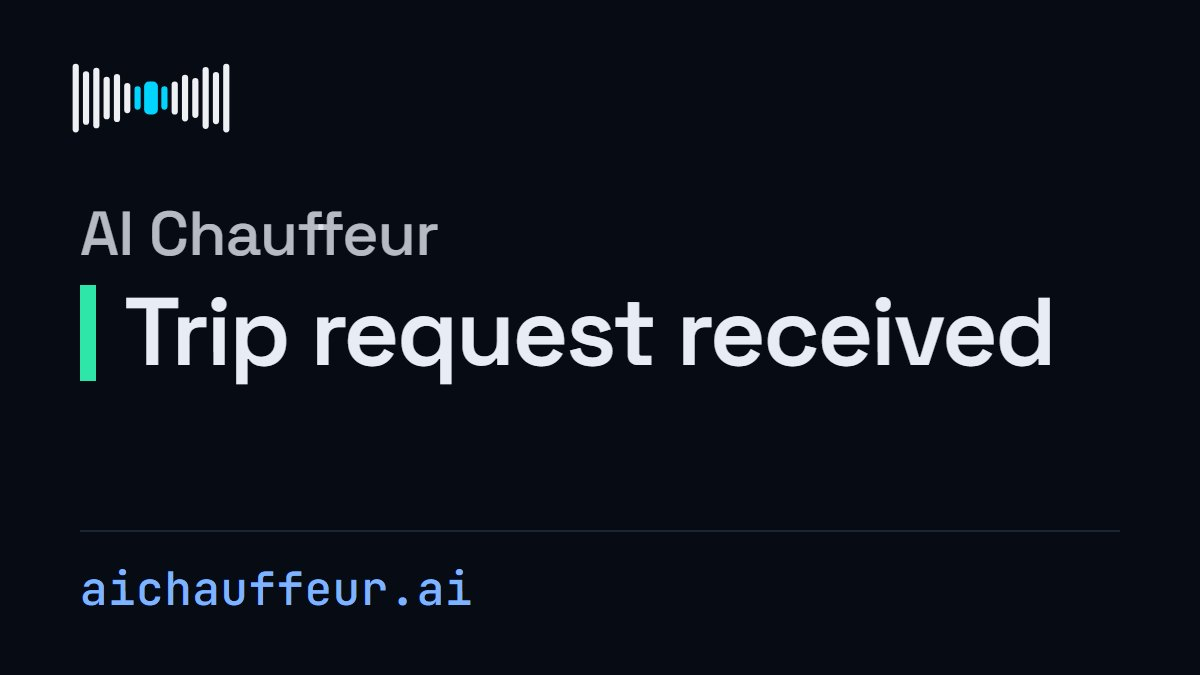
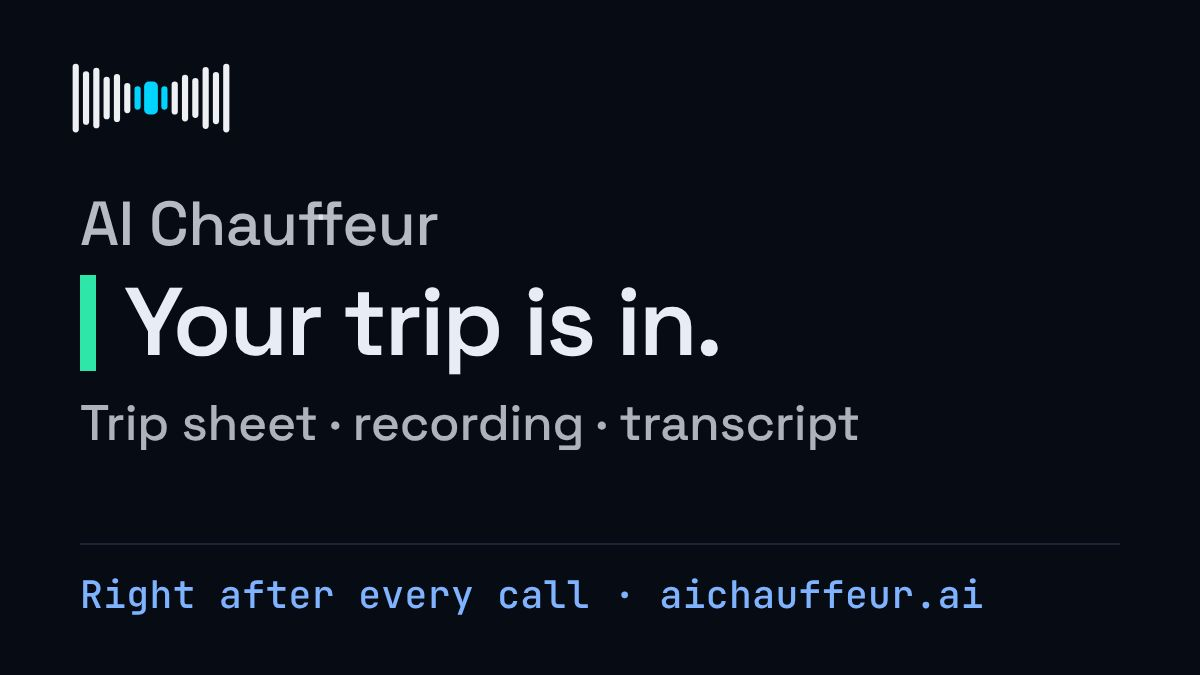
aic trip text B: card v1 (Your trip is in. · Trip sheet · recording · transcript), Sep card kept
n8n (published via MCP, Oct 20 2026): WF-TRIP-SHEET + Page Words v2 (version 2b0bbab6),
DEMO POST-CALL RAIL + Owner Words v2, owner MMS card, demo caller billboard text (version e35d9924).
Rollback: trip sheet 484c0a36, rail c7bd86fd.

Claude-Session: https://claude.ai/code/session_01AroH9HQrr5p2ctT592LeD2

diff --git a/chauffeur/assets/trip-text-card.html b/chauffeur/assets/trip-text-card.html
@@ -6,7 +6,8 @@
 <title>Trip text card source | AI Chauffeur</title>
 <!-- Source of /assets/trip-text-card.jpg, the image on the caller's trip text (MMS) and the trip
      sheet's og:image. Rendered by headless Chromium at 1200x675 and saved as JPG. Words on the card,
-     exactly: "AI Chauffeur", "Trip request received", "aichauffeur.ai". The mark is the supplied
+     exactly: "AI Chauffeur", "Your trip is in.", "Trip sheet · recording · transcript", "Right after every call · aichauffeur.ai"
+     (card v1, Oct 20 2026; the Sep card is kept as trip-text-card-2026-09.jpg). JPEG quality 80, under 300 KB. The mark is the supplied
      brand/mark-full.svg, referenced and never redrawn or recoloured. Tokens: DESIGN-SYSTEM.md 2. -->
 <style>
   @font-face{font-family:'Space Grotesk';src:url('../fonts/space-grotesk.woff2') format('woff2');font-weight:300 700;font-display:block}
@@ -16,22 +17,25 @@
   .card{position:relative;width:1200px;height:675px;background:#070B14;color:#E8EDF5;
     padding:60px 80px 56px;display:flex;flex-direction:column}
   .mark{display:block;width:176px;height:176px;margin:-50px 0 -26px -17px}
-  .name{margin-top:40px;font-family:'Space Grotesk',sans-serif;font-weight:500;font-size:62px;
+  .name{margin-top:30px;font-family:'Space Grotesk',sans-serif;font-weight:500;font-size:62px;
     line-height:1.1;letter-spacing:-.01em;color:rgba(232,237,245,.78)}
   .state{display:flex;align-items:center;gap:28px;margin-top:14px}
   .state i{display:block;flex:none;width:16px;height:96px;background:#2EE6A8}
   .state h1{font-family:'Space Grotesk',sans-serif;font-weight:600;font-size:96px;line-height:1.05;
     letter-spacing:-.025em;color:#E8EDF5;white-space:nowrap}
-  .foot{margin-top:auto;padding-top:26px;border-top:2px solid #1B2536;
-    font-family:'JetBrains Mono',monospace;font-weight:500;font-size:46px;letter-spacing:.01em;color:#7FB2FF}
+  .sub{margin-top:22px;font-family:'Space Grotesk',sans-serif;font-weight:500;font-size:50px;line-height:1.15;
+    letter-spacing:-.005em;color:rgba(232,237,245,.74)}
+  .foot{margin-top:auto;padding-top:24px;border-top:2px solid #1B2536;
+    font-family:'JetBrains Mono',monospace;font-weight:500;font-size:38px;letter-spacing:.01em;color:#7FB2FF}
 </style>
 </head>
 <body>
 <div class="card">
   <img class="mark" src="brand/mark-full.svg" width="132" height="132" alt="">
   <p class="name">AI Chauffeur</p>
-  <div class="state"><i></i><h1>Trip request received</h1></div>
-  <p class="foot">aichauffeur.ai</p>
+  <div class="state"><i></i><h1>Your trip is in.</h1></div>
+  <p class="sub">Trip sheet · recording · transcript</p>
+  <p class="foot">Right after every call · aichauffeur.ai</p>
 </div>
 </body>
 </html>

diff --git a/infra/backups/2026-10-20/chauffeur/assets/trip-text-card.html b/infra/backups/2026-10-20/chauffeur/assets/trip-text-card.html
@@ -1,0 +1,37 @@
+<!DOCTYPE html>
+<html lang="en">
+<head>
+<meta charset="utf-8">
+<meta name="robots" content="noindex">
+<title>Trip text card source | AI Chauffeur</title>
+<!-- Source of /assets/trip-text-card.jpg, the image on the caller's trip text (MMS) and the trip
+     sheet's og:image. Rendered by headless Chromium at 1200x675 and saved as JPG. Words on the card,
+     exactly: "AI Chauffeur", "Trip request received", "aichauffeur.ai". The mark is the supplied
+     brand/mark-full.svg, referenced and never redrawn or recoloured. Tokens: DESIGN-SYSTEM.md 2. -->
+<style>
+  @font-face{font-family:'Space Grotesk';src:url('../fonts/space-grotesk.woff2') format('woff2');font-weight:300 700;font-display:block}
+  @font-face{font-family:'JetBrains Mono';src:url('../fonts/jetbrains-mono.woff2') format('woff2');font-weight:400 700;font-display:block}
+  *{margin:0;padding:0;box-sizing:border-box}
+  html,body{width:1200px;height:675px;overflow:hidden;background:#070B14}
+  .card{position:relative;width:1200px;height:675px;background:#070B14;color:#E8EDF5;
+    padding:60px 80px 56px;display:flex;flex-direction:column}
+  .mark{display:block;width:176px;height:176px;margin:-50px 0 -26px -17px}
+  .name{margin-top:40px;font-family:'Space Grotesk',sans-serif;font-weight:500;font-size:62px;
+    line-height:1.1;letter-spacing:-.01em;color:rgba(232,237,245,.78)}
+  .state{display:flex;align-items:center;gap:28px;margin-top:14px}
+  .state i{display:block;flex:none;width:16px;height:96px;background:#2EE6A8}
+  .state h1{font-family:'Space Grotesk',sans-serif;font-weight:600;font-size:96px;line-height:1.05;
+    letter-spacing:-.025em;color:#E8EDF5;white-space:nowrap}
+  .foot{margin-top:auto;padding-top:26px;border-top:2px solid #1B2536;
+    font-family:'JetBrains Mono',monospace;font-weight:500;font-size:46px;letter-spacing:.01em;color:#7FB2FF}
+</style>
+</head>
+<body>
+<div class="card">
+  <img class="mark" src="brand/mark-full.svg" width="132" height="132" alt="">
+  <p class="name">AI Chauffeur</p>
+  <div class="state"><i></i><h1>Trip request received</h1></div>
+  <p class="foot">aichauffeur.ai</p>
+</div>
+</body>
+</html>
